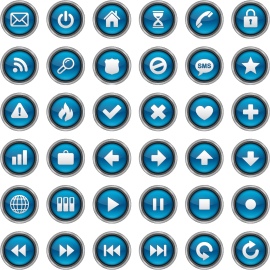
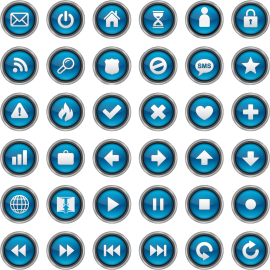
Need to fix bug on curator creation page.

Changed region(s): [[0.7111, 0.0, 0.8296, 0.1185], [0.2074, 0.7111, 0.2963, 0.8]]

diff --git a/CSS/imageSheet.css b/CSS/imageSheet.css
@@ -31,7 +31,7 @@ width: 45px;
     background: url(../images/iStock.png) -138px 0;  
 }
 
-#phone {
+#userFrame {
   width: 45px;
     height: 45px;
     background: url(../images/iStock.png) -184px 0; 
@@ -68,7 +68,7 @@ width: 45px;
     background: url(../images/iStock.png) -138px -46px;  
 }
 
-#smsBuble {
+#smsBubble {
   width: 45px;
     height: 45px;
     background: url(../images/iStock.png) -184px -46px;  
@@ -161,7 +161,7 @@ width: 45px;
     background: url(../images/iStock.png) 0 -184px;  
 }
 
-#barGraph {
+#logOut {
   width: 45px;
     height: 45px;
     background: url(../images/iStock.png) -46px -184px;  

diff --git a/Includes/header.php b/Includes/header.php
@@ -1,18 +1,29 @@
 <header>
-    
+    <?php if (!is_array($_SESSION)){
+        session_start();
+    } ?>
     <section id="logo">
         <!-- Home page linked through logo -->
 <a href="index.php"><img src="Images/CDLogo.png" alt="Curated Dots Logo"></a><h1>Curated Dots</h1>
     </section>
     <section id="imNav">
         <a href="index.php"><img id="home" src="Images/transparentImage.png" alt="homeButton"></a>
-    <a><img id="notification" src="Images/transparentImage.png" alt="notification"/></a>
+        <a><img id="notification" src="Images/transparentImage.png" alt="notification"/></a>
+        <a href="logOut.php"><img id="logOut" src="Images/transparentImage.png" alt="logOut"/></a>
+        <a><img id="search" src="Images/transparentImage.png" alt="search"/></a>
+                <?php if (!array_key_exists("user", $_SESSION)) {
+        } else {
+            echo '<a href="editDotList.php"><img id="userFrame" src="Images/transparentImage.png" alt="userFrame"/></a>';
+        }
+?>
     </section>
     <?php
-    if (array_key_exists("user", $_SESSION)) {
-    } else {
-        include 'includes/curatorLogin.php';
+    if (!array_key_exists("user", $_SESSION)) {
+        include 'Includes/curatorLogin.php';
+        include 'Includes/dotSearch.php';
         exit;
+    } else {
+        include 'Includes/dotSearch.php';
     }
 ?>
 </header>

diff --git a/createNewAccount.php b/createNewAccount.php
@@ -1,8 +1,3 @@
-<!--
-To change this license header, choose License Headers in Project Properties.
-To change this template file, choose Tools | Templates
-and open the template in the editor.
--->
 <?php
 require_once ("Includes/db.php");
 
@@ -30,7 +25,6 @@ if ($_SERVER["REQUEST_METHOD"] == "POST") {
     
     /** Create database connection */
     $curatorID = CuratorDB::getInstance()->get_curator_id_by_name($_POST["fName"]);
-    
     
     //Password Validation?
     if ($_POST["password"]=="") {
@@ -61,11 +55,11 @@ if ($_SERVER["REQUEST_METHOD"] == "POST") {
     }
 }
 ?>
-<?php include 'includes/top.php'; ?>
+<?php include 'Includes/top.php'; ?>
         <title>Add New User Account</title>
     </head>
     <body>
-        <?php include 'includes/header.php'; ?>
+        <?php include 'Includes/header.php'; ?>
         <form action="createNewAccount.php" method="POST">
             First Name: <input type="text" name="fName"/><br>
              <?php
@@ -101,9 +95,6 @@ if ($_SERVER["REQUEST_METHOD"] == "POST") {
         </form>
     </body>
     <FOOTER>
-            <?php
-                $cwd = getcwd();
-                include($cwd.'/includes/toMain.php');
-            ?>
+            <?php include 'Includes/toMain.php'; ?>
         </FOOTER>
 </html>

diff --git a/login.php b/login.php
@@ -1,22 +1,20 @@
-<?php include 'includes/top.php'; ?>
+<?php include 'Includes/top.php'; ?>
         <title>Search Results</title>
     </head>
     <body>
-        <?php include 'includes/header.php'; ?>
+        <?php include 'Includes/header.php'; ?>
         Wish List of:
             <?php
                 echo htmlentities($_GET["user"])."<br>";
             ?>
         <?php
-        require_once("Includes/db.php");
+        require_once("includes/db.php");
             // Make connection to database
             $curatorID = CuratorDB::getInstance()->get_curator_id_by_name($_GET["user"]);
             if (!$curatorID) {
                 exit("The person " . $_GET["user"] . " is not found. Please check the spelling and try again.");
             }
-
-
-                    ?>
+            ?>
 
         <!-- Create output table for Dots -->
         <table border="black">
@@ -39,8 +37,7 @@
     </body>
     <FOOTER>
             <?php
-                $cwd = getcwd();
-                include($cwd.'/includes/toMain.php');
+                include 'Includes/toMain.php';
             ?>
         </FOOTER>
 </html>

diff --git a/editDot.php b/editDot.php
@@ -29,7 +29,7 @@ if ($_SERVER['REQUEST_METHOD'] == "POST"){
     }
 ?>
 
-<?php include 'includes/top.php'; ?>
+<?php include 'Includes/top.php'; ?>
 <title>Add New Dot</title>
     </head>
     <body>
@@ -46,7 +46,7 @@ if ($_SERVER['REQUEST_METHOD'] == "POST"){
                 "dots_description" => ""); 
         }
         ?>
-        <?php include 'includes/header.php'; ?>
+        <?php include 'Includes/header.php'; ?>
         <h3>Welcome <?php echo $_SESSION['user']?> add new Dot Details</h3>
         <form name="editDot" action="editDot.php" method="POST">
             <input type="hidden" name="dot_id" value="<?php echo $dot["dots_id"];?>" />
@@ -62,9 +62,6 @@ if ($_SERVER['REQUEST_METHOD'] == "POST"){
         </form>
     </body>
     <FOOTER>
-            <?php
-                $cwd = getcwd();
-                include($cwd.'/includes/toMain.php');
-            ?>
+            <?php include 'Includes/toMain.php';?>
         </FOOTER>
 </html>

diff --git a/index.php b/index.php
@@ -7,20 +7,20 @@ if ($_SERVER['REQUEST_METHOD'] == "POST"){
     $logonSuccess = (CuratorDB::getInstance()->verify_curator_credentials($_POST['username'], $_POST['password']));
     if ($logonSuccess == true) {
         session_start();
+        if (array_key_exists("user", $_SESSION)) {   
+    } else {
         $_SESSION['user'] = $_POST['username'];
         header('Location: editDotList.php');
         exit;
     }
+    }
 }
 ?>
-<?php include 'includes/top.php'; ?>
+<?php include 'Includes/top.php'; ?>
             <title>CurateDots</title>
         </head>
 
         <body>
-            <?php
-                $cwd = getcwd();
-                include($cwd.'/includes/header.php');
-            ?>
+            <?php include 'Includes/header.php'; ?>
         </body>
     </html>

diff --git a/Includes/curatorLogin.php b/Includes/curatorLogin.php
@@ -1,10 +1,3 @@
-    <section id="dotSearch">
-        <form name="showDots" method="GET" action="login.php">
-        Show Dots: <input type="text" name="user" placeholder="username" /><br>
-        <input type="submit" value="Show" />
-        
-    </form>
-    </section>    
     <section id="curLogin">
         <form id="loginGrid" name="Login" action="index.php" method="post">
         <?php

diff --git a/Includes/dotSearch.php b/Includes/dotSearch.php
@@ -1,0 +1,6 @@
+    <section id="dotSearch">
+        <form name="showDots" method="GET" action="login.php">
+        Show Dots: <input type="text" name="user" placeholder="username"/><br>
+        <input type="submit" value="Show" />
+    </form>
+    </section>

diff --git a/logOut.php b/logOut.php
@@ -1,0 +1,7 @@
+<?php
+    session_start();
+    $_SESSION = array();
+    session_destroy();
+    header('Location: index.php');
+    exit;
+?>
